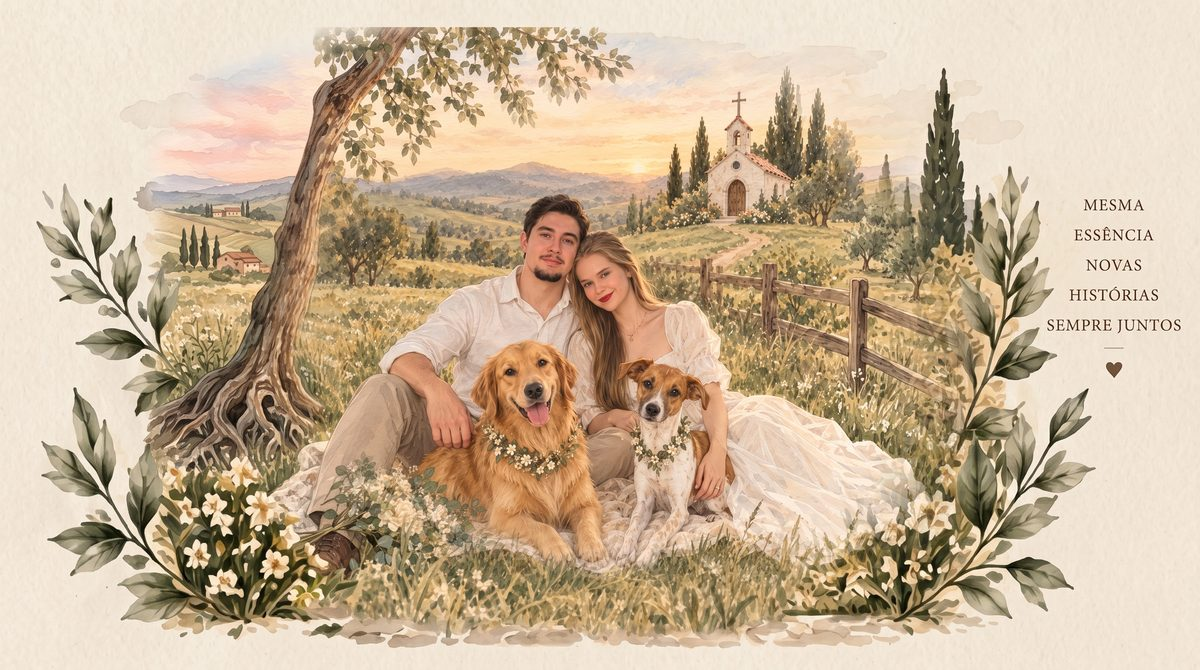
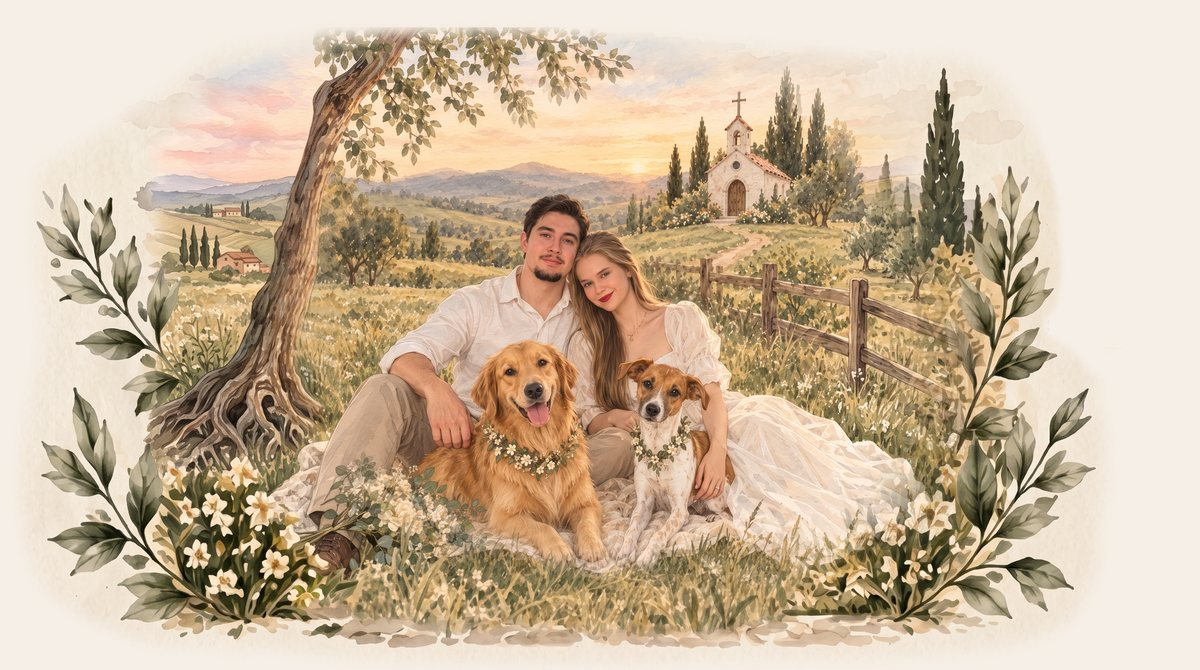
Aquarela em PNG com transparência, sem a frase embutida
A arte nova tem borda esfumada e fundo transparente, então a WebP preserva o
alfa e a aquarela se dissolve no marfim da seção, sem recorte reto.

Como a frase saiu da imagem, os dizeres voltam a ser texto de verdade: abaixo
da arte no celular e em coluna na lateral direita a partir de 1000px, como na
arte de referência. Sai o <picture> de duas versões e o arquivo aquarela-movel.

A prévia de link continua em JPEG, agora achatada sobre o marfim, já que JPEG
não carrega transparência.

Changed region(s): [[0.8633, 0.2985, 0.9867, 0.5075], [0.2775, 0.0299, 0.5242, 0.0597], [0.925, 0.5373, 0.9558, 0.5672]]

diff --git a/index.html b/index.html
@@ -23,7 +23,7 @@
 <link rel="preconnect" href="https://fonts.googleapis.com">
 <link rel="preconnect" href="https://fonts.gstatic.com" crossorigin>
 <link rel="stylesheet" href="https://fonts.googleapis.com/css2?family=Playfair+Display:wght@400;500;600&family=Lato:wght@300;400;700&family=Allura&display=swap">
-<link rel="stylesheet" href="css/style.css?v=24">
+<link rel="stylesheet" href="css/style.css?v=25">
 </head>
 <body>
 
@@ -73,17 +73,14 @@
 <!-- ═══════════════════════════════════════════════ 2. AQUARELA -->
 <section class="secao aquarela" id="aquarela">
   <div class="container">
-    <figure class="rv">
-      <picture>
-        <!-- o banner largo já traz os dizeres na lateral; no celular esse texto
-             ficaria com 39px de largura, então ali entra só a arte -->
-        <source media="(min-width: 760px)" srcset="img/identidade/aquarela.webp">
-        <img src="img/identidade/aquarela-movel.webp" width="1000" height="640"
+    <div class="aquarela__grade">
+      <figure class="rv">
+        <img src="img/identidade/aquarela.webp" width="1600" height="893"
              alt="Aquarela de Mozar e Eduarda com as cachorras, em frente à capela.">
-      </picture>
-    </figure>
-    <div class="aquarela__dizeres rv" style="--d:.15s">
-      <ul class="dizeres" id="dizeres-aquarela"></ul>
+      </figure>
+      <div class="aquarela__dizeres rv" style="--d:.15s">
+        <ul class="dizeres" id="dizeres-aquarela"></ul>
+      </div>
     </div>
   </div>
 </section>

diff --git a/css/style.css b/css/style.css
@@ -243,12 +243,11 @@ button { font: inherit; color: inherit; }
 .secao--claro { background: var(--marfim-claro); }
 
 .aquarela { padding: clamp(2.5rem, 8vw, 4rem) 0; }
+.aquarela__grade { display: grid; gap: clamp(1.4rem, 5vw, 2.5rem); align-items: center; }
 .aquarela figure { margin: 0; }
 .aquarela img { width: 100%; }
-/* os dizeres só aparecem no celular: na tela larga eles já vêm na própria arte */
-.aquarela__dizeres { display: flex; justify-content: center; margin-top: clamp(1.5rem, 5vw, 2rem); }
+.aquarela__dizeres { display: flex; justify-content: center; }
 .aquarela__dizeres .dizeres { text-align: center; }
-@media (min-width: 760px) { .aquarela__dizeres { display: none; } }
 
 /* ============================================== 3. CONTAGEM REGRESSIVA */
 .contagem { text-align: center; }
@@ -630,6 +629,10 @@ button { font: inherit; color: inherit; }
     padding-left: 1.6rem; border-left: 1px solid rgba(212, 175, 124, .35);
     text-align: left;
   }
+  .aquarela__grade { grid-template-columns: 1fr auto; gap: clamp(2rem, 5vw, 3.5rem); }
+  .aquarela__dizeres { justify-content: flex-start; }
+  .aquarela__dizeres .dizeres { text-align: left; }
+
   .rodape__grade { grid-template-columns: 1fr auto 1fr; align-items: center; }
   .rodape__marca { grid-column: 2; }
   .rodape__dizeres { grid-column: 3; justify-self: end; text-align: left; }

diff --git a/admin.html b/admin.html
@@ -8,7 +8,7 @@
 <link rel="preconnect" href="https://fonts.googleapis.com">
 <link rel="preconnect" href="https://fonts.gstatic.com" crossorigin>
 <link rel="stylesheet" href="https://fonts.googleapis.com/css2?family=Playfair+Display:wght@400;500&family=Lato:wght@300;400;700&family=Allura&display=swap">
-<link rel="stylesheet" href="css/style.css?v=24">
+<link rel="stylesheet" href="css/style.css?v=25">
 <style>
   body { background: var(--marfim); }
   .topo {

diff --git a/ASSETS.md b/ASSETS.md
@@ -5,12 +5,11 @@
 | Arquivo | Origem | Observação |
 |---|---|---|
 | `img/monograma.svg` | `ME.svg` | Monograma oficial. Usado como **máscara CSS**, então o site pinta ele de dourado na abertura e de marrom no painel sem precisar de outro arquivo. |
-| `img/identidade/aquarela.webp` | `AQUARELA.jpg` | 1600px. O banner completo, com os dizeres já na arte. Usado de 760px para cima. |
-| `img/identidade/aquarela-movel.webp` | `AQUARELA.jpg` | 1000px, cortado antes da coluna de texto. No celular aquele texto teria 39px de largura e seria ilegível, então ali entra só a arte e os dizeres voltam a ser texto de verdade, logo abaixo. |
+| `img/identidade/aquarela.webp` | `AQUARELA.png` | 1600px, **com transparência preservada**. A borda esfumada da arte se dissolve no marfim da seção, sem moldura nem recorte reto. |
 | `img/identidade/igreja.webp` | `cerimonia.jpeg` | 1400px, horizontal. |
 | `img/identidade/recepcao.webp` | `recepção.jpeg` | 1400px, horizontal. |
 | `img/identidade/rsvp.webp` | `rsvp.jpeg` | 1400px, horizontal. |
-| `img/identidade/aquarela.jpg` | `AQUARELA.jpg` | 1200px, **só** para a prévia do link no WhatsApp — que falha acima de ~300KB, por isso essa versão separada. |
+| `img/identidade/aquarela.jpg` | `AQUARELA.png` | 1200px, **só** para a prévia do link no WhatsApp. Achatada sobre o marfim porque JPEG não tem transparência, e mantida abaixo de 300KB — acima disso o WhatsApp desiste de montar o cartão. |
 | `img/flores/*.webp` | `flores1-5.png` e os quatro PNGs de canto | Nove recortes com transparência. Seis em uso, três de reserva. |
 
 Os originais (3 a 5 MB cada) ficam na pasta do projeto, **fora** do repositório —
